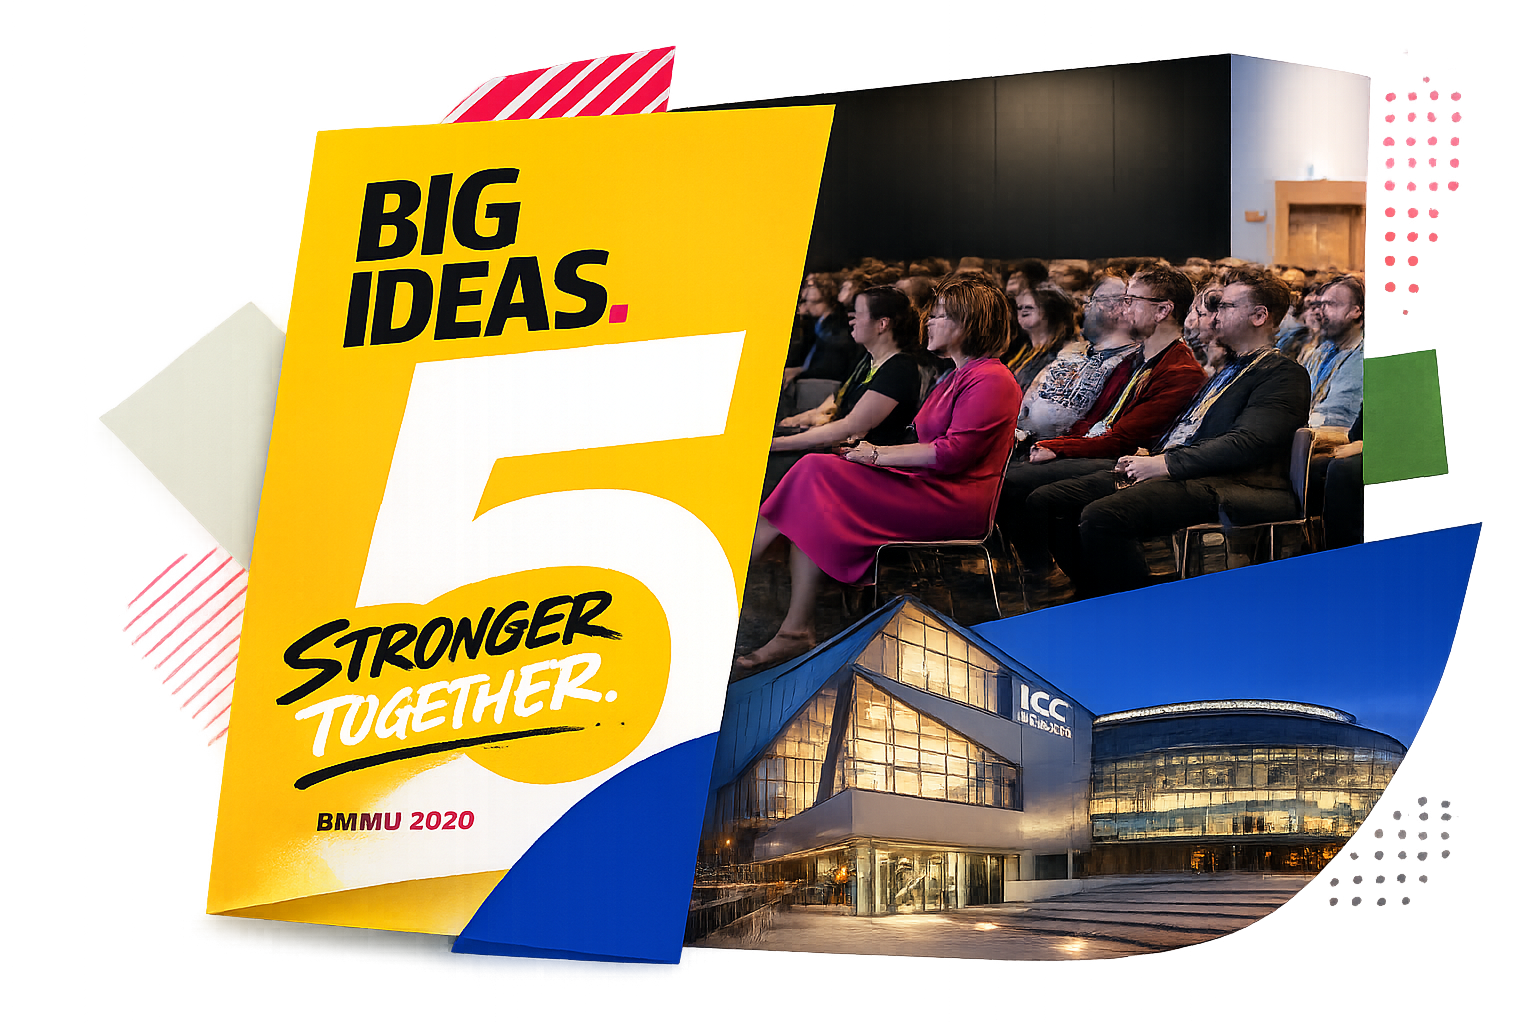
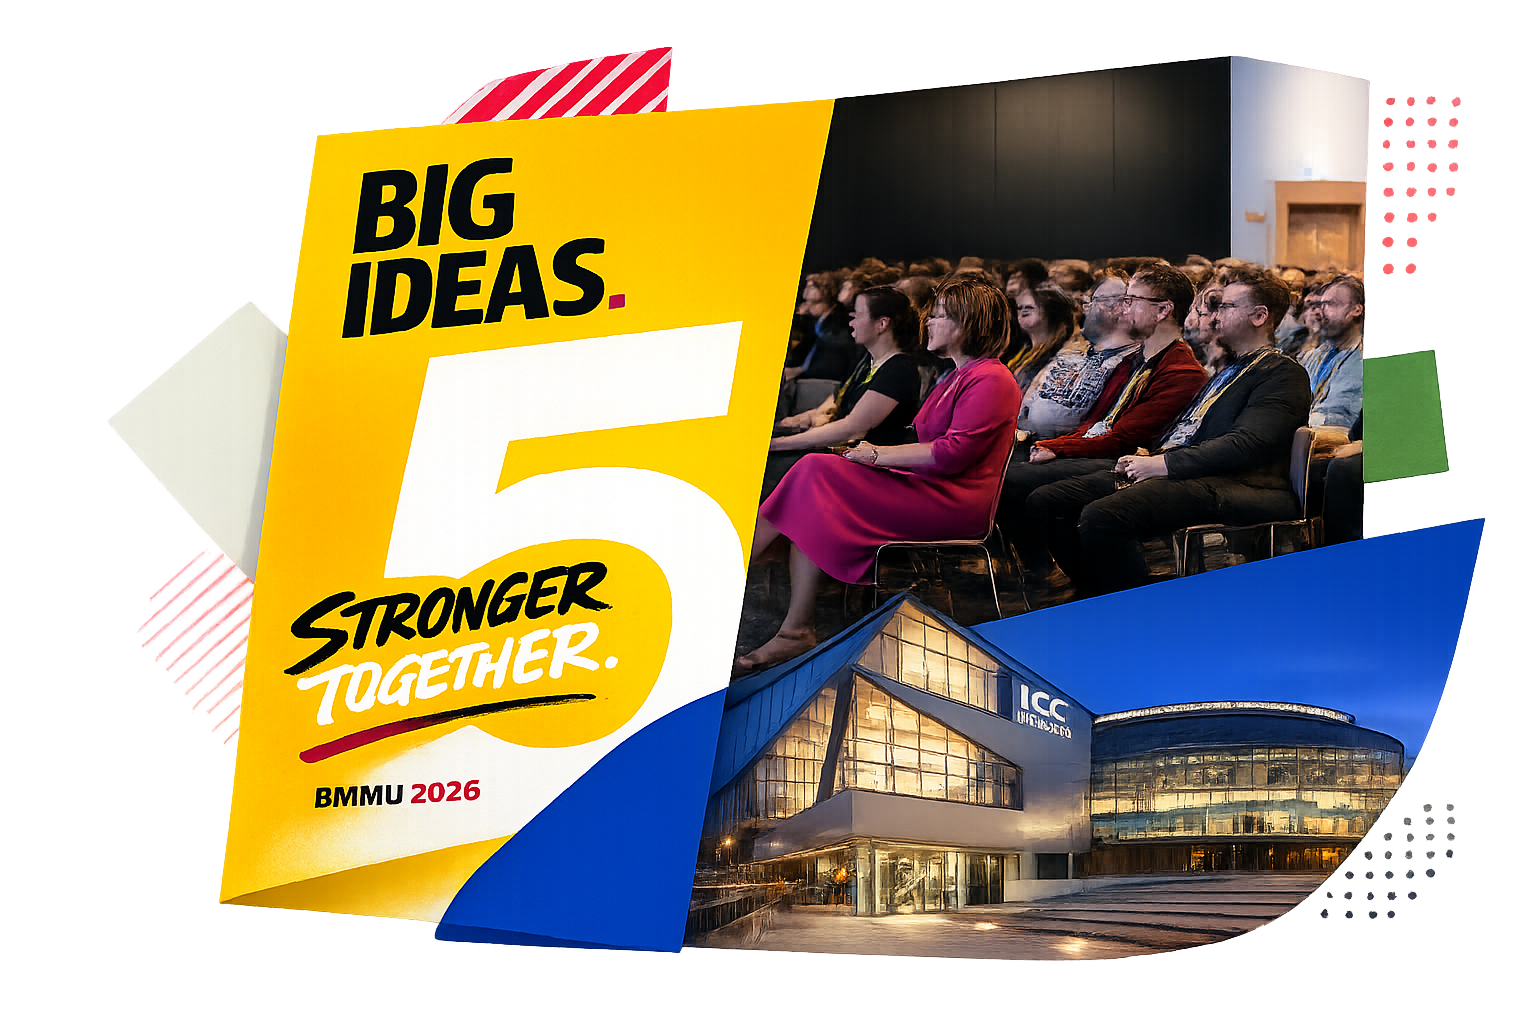
feat: update hero graphic to v3 with revised sizing and accessibility attributes

diff --git a/styles.css b/styles.css
@@ -90,8 +90,7 @@ a {
   width: clamp(150px, 17vw, 220px);
 }
 
-.brand-logo,
-.hero-mark {
+.brand-logo {
   color: var(--muted);
 }
 
@@ -389,8 +388,8 @@ h1 {
 .hero-mark {
   display: block;
   height: auto;
-  max-width: 550px;
-  width: 40vw;
+  max-width: 800px;
+  width: 50vw;
 }
 
 .hero-mark-wrap {

diff --git a/index.html b/index.html
@@ -122,7 +122,7 @@
       </div>
       <div class="hero-art" aria-hidden="true">
         <span class="hero-mark-wrap">
-          <img class="hero-mark" src="assets/bmmu-hero-mark.svg" alt="" width="550" height="547">
+          <img class="hero-mark" src="assets/hero-v3.png" alt="BMMU 2026 The Big 5" width="768" height="512">
         </span>
       </div>
     </section>